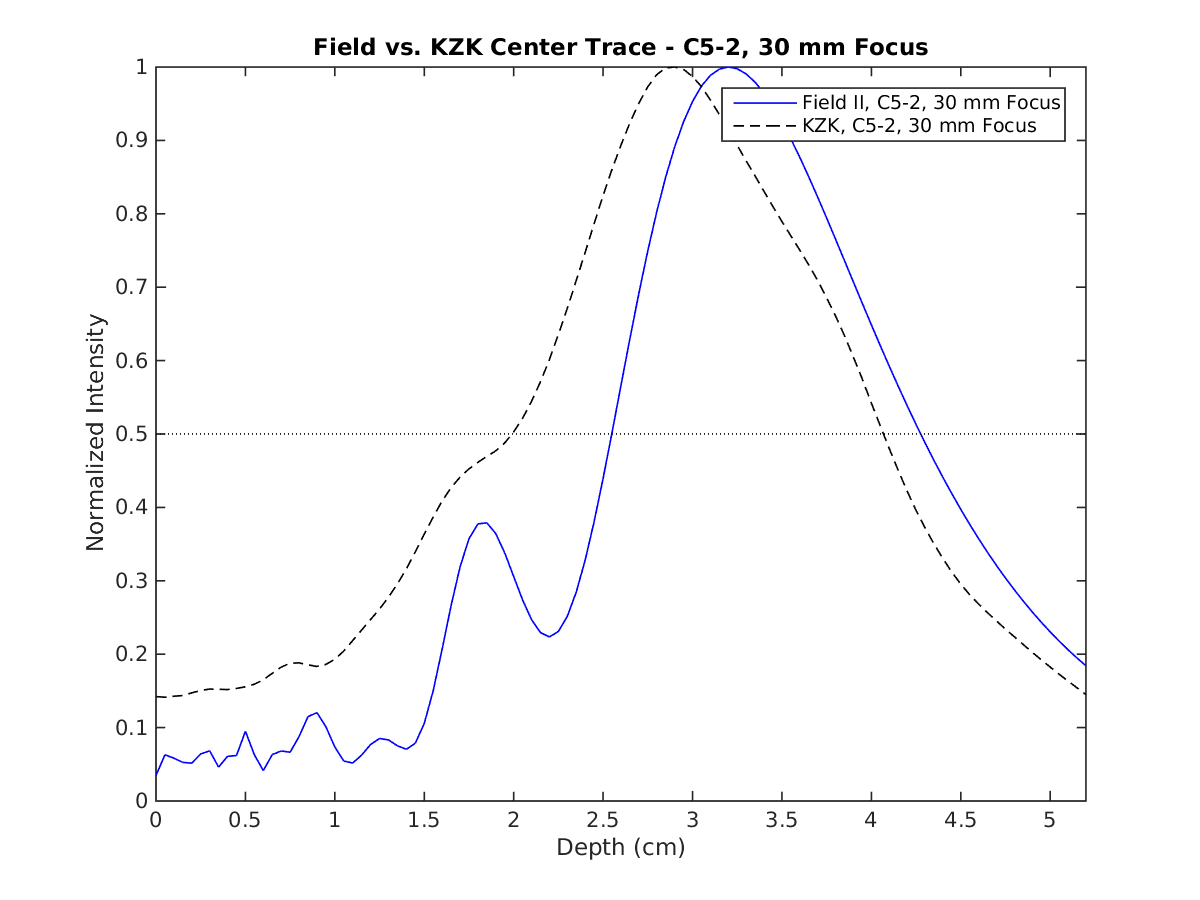
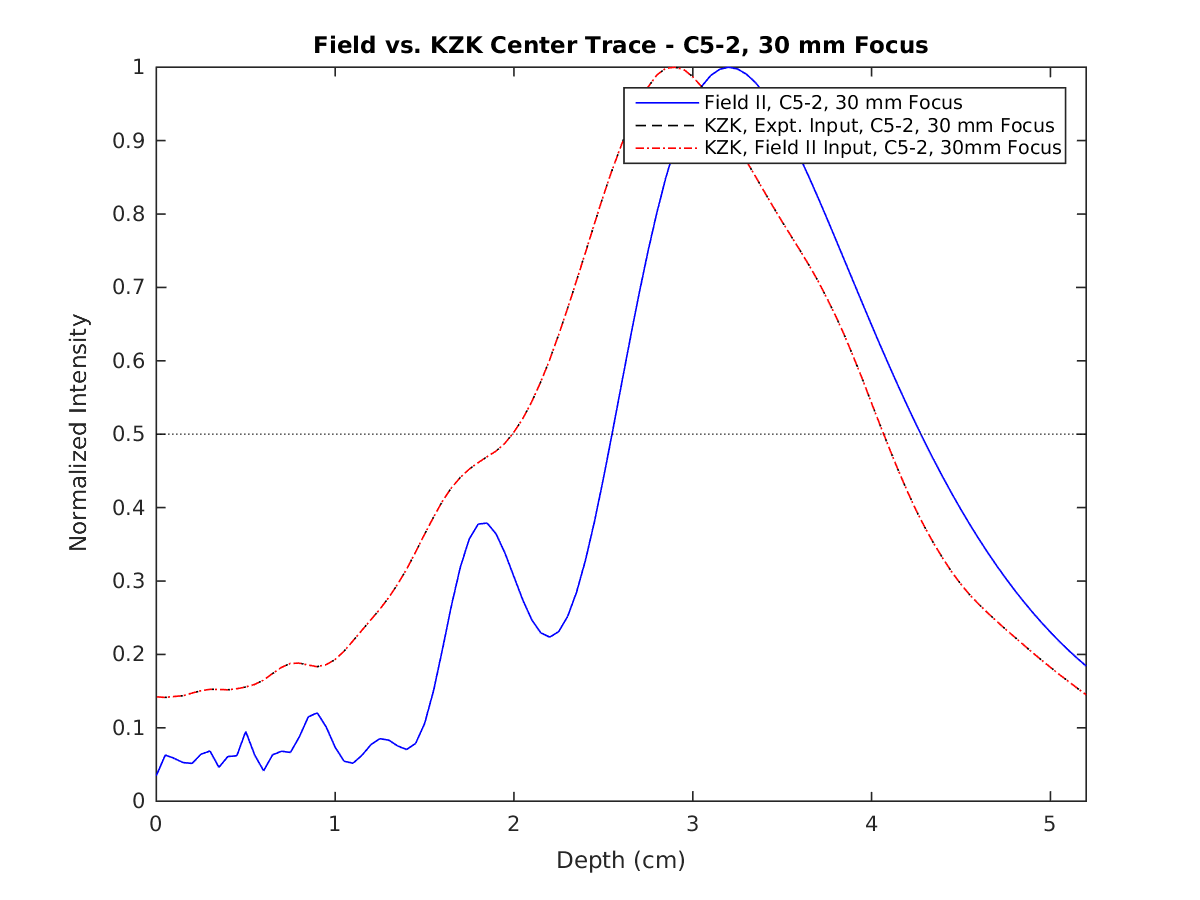
added center trace plots and contour plots of 30 mm focus kzk sim with field ii pressure inputs

diff --git a/comparisons/focus30mm/linear_compare.m b/comparisons/focus30mm/linear_compare.m
@@ -1,6 +1,6 @@
 clear; clf;
 
-addpath ../metrics/
+addpath ../../metrics/
 
 %% Field II and KZK (linear) sim comparisons - 30 mm focus
 
@@ -52,8 +52,8 @@ fprintf('\n')
 
 % Linear KZK w/ Field II Pressure Input
 fprintf('Linear KZK:\n')
-load /luscinia/nl91/nonlinear_acoustic/kzk/field_ii_c52_focus30mm/...
-              c52_30mm_intensity_field_field_ii_pressure_input.mat
+load(['/luscinia/nl91/nonlinear_acoustic/kzk/field_ii_c52_focus30mm/'...
+              'c52_30mm_intensity_field_field_ii_pressure_input.mat'])
           
 % remove first depth plane (not sure why there are 106 planes instead of 105... maybe bug???)
 intensity = intensity(1:end-1, :, :);
